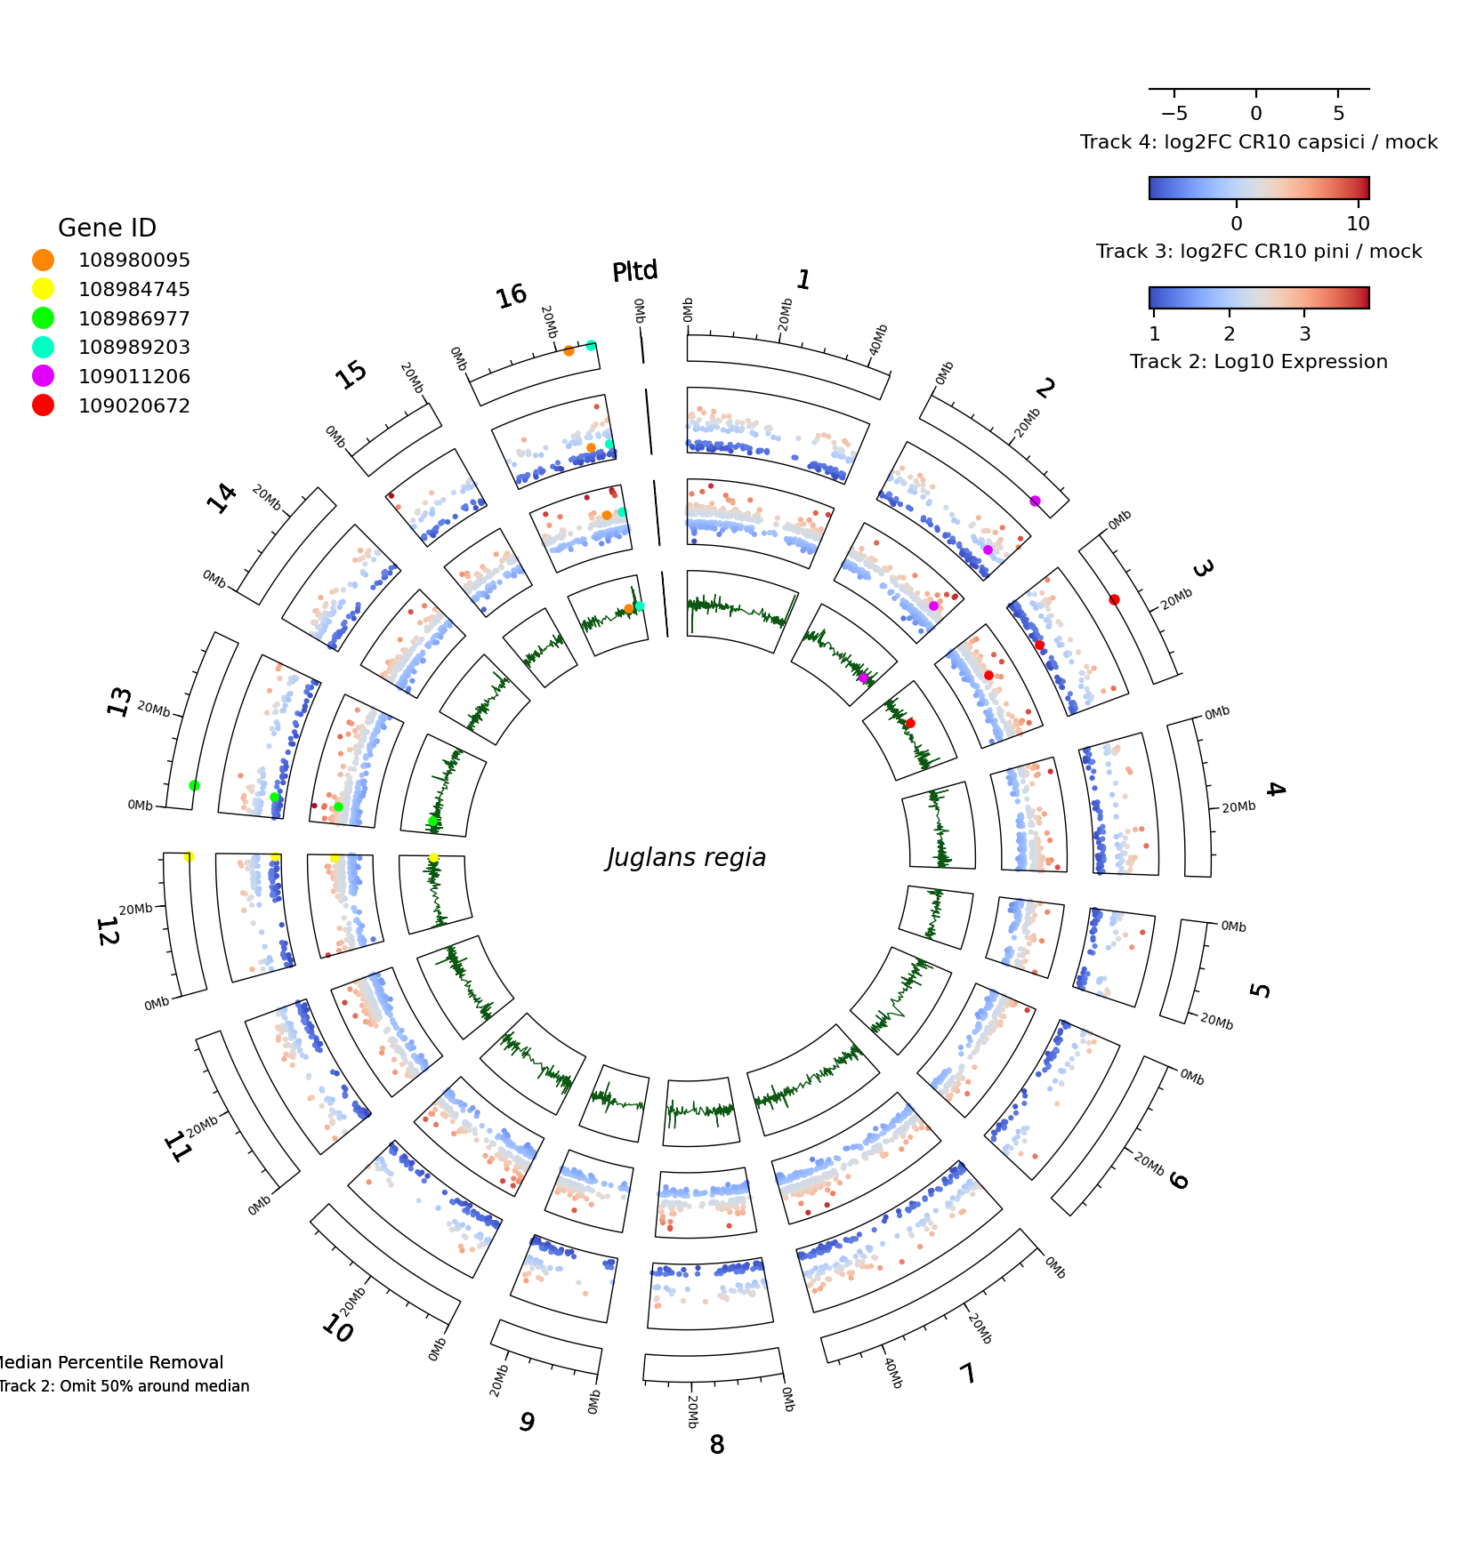
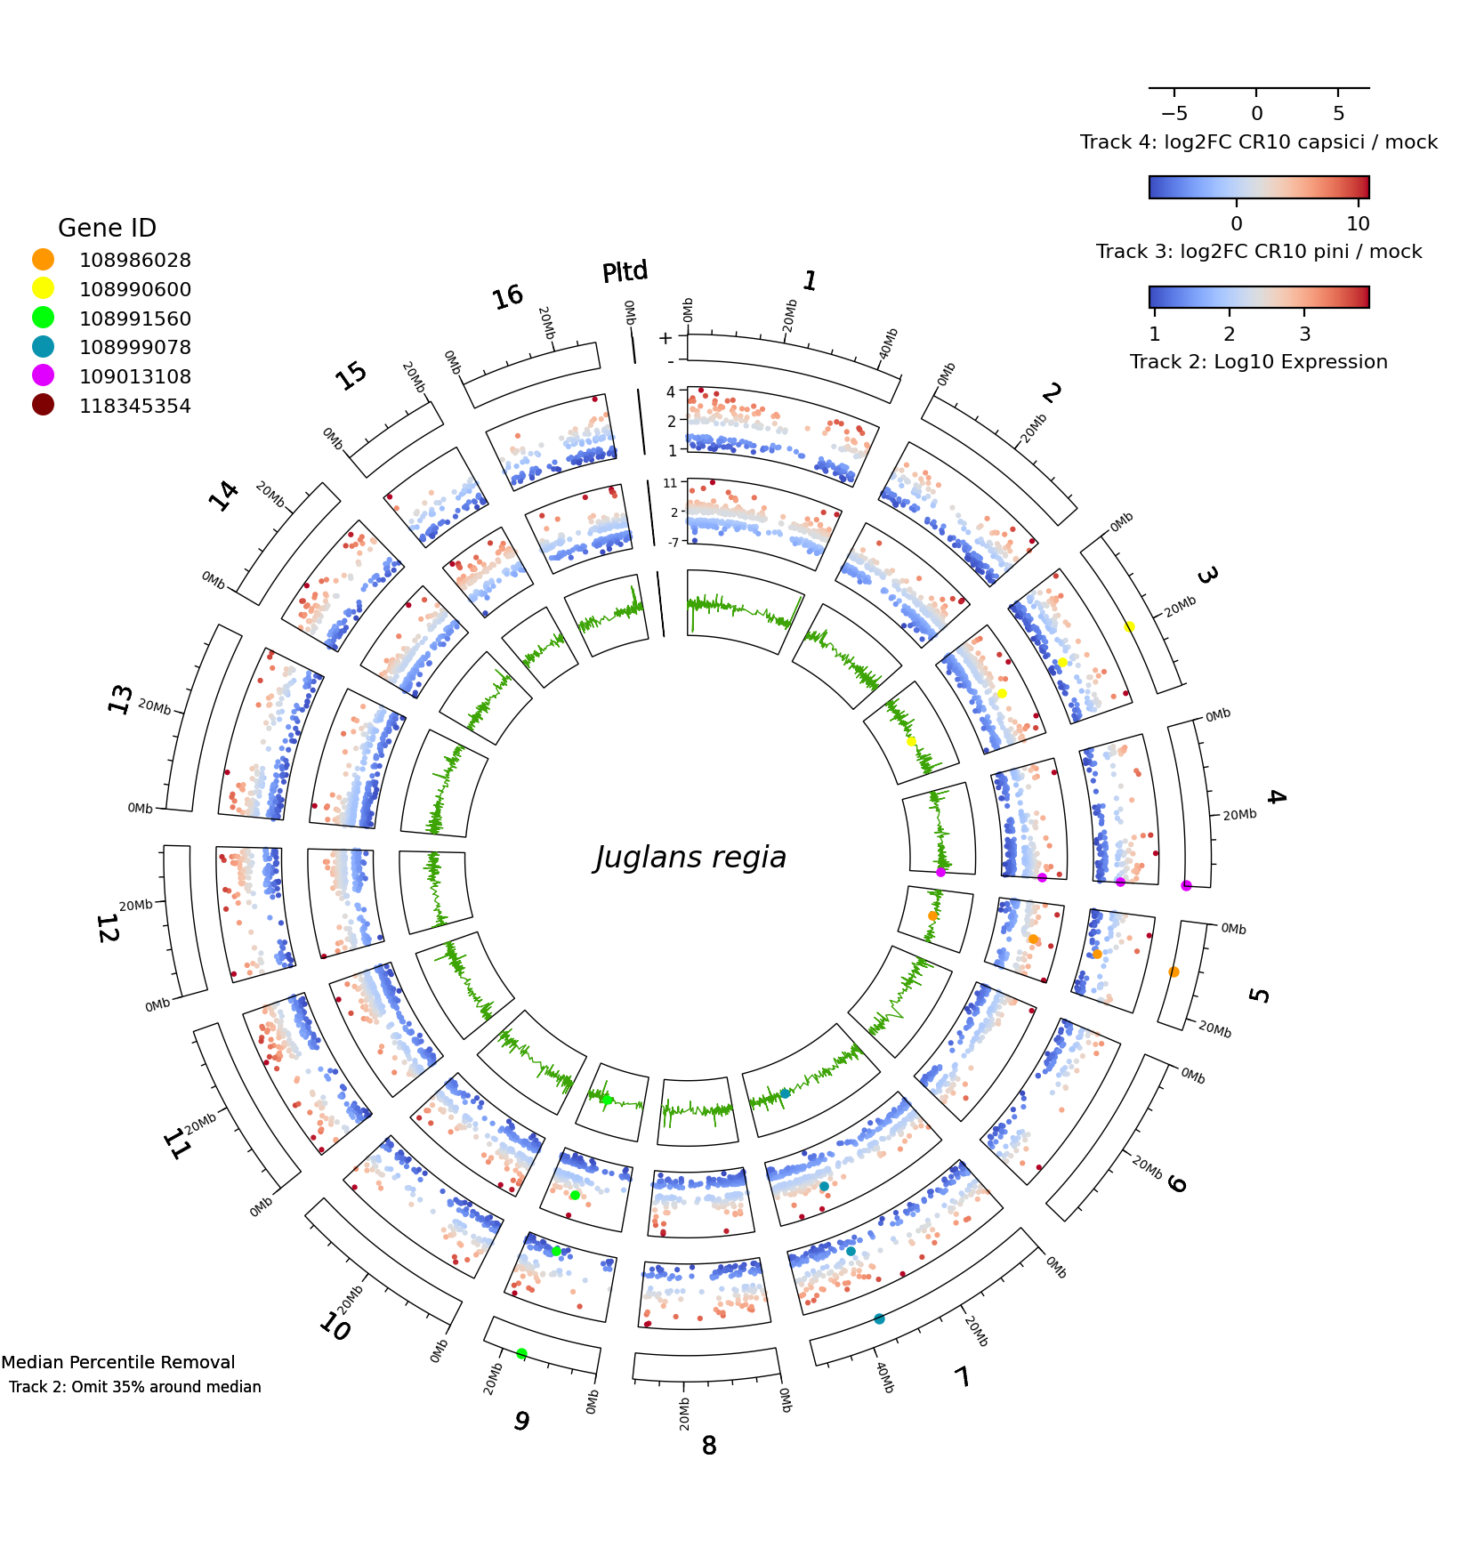
bug fixes

diff --git a/Genome_Visualization_App.py b/Genome_Visualization_App.py
@@ -7,30 +7,8 @@ from ncbi.datasets.openapi import ApiClient
 from ncbi.datasets.openapi.rest import ApiException
 import numpy as np
 from Bio import Entrez
+import textwrap
 import time
-
-def fetch_species_suggestions(query):
-    """Fetch species suggestions using the Entrez API."""
-    try:
-        handle = Entrez.esearch(db="taxonomy", term=query, retmax=5)
-        record = Entrez.read(handle)
-        handle.close()
-        time.sleep(0.4)  # Wait 400 ms (3 requests/second = 1 request/0.333s)
-        
-        if 'IdList' in record and record['IdList']:
-            species_names = []
-            for tax_id in record['IdList']:
-                tax_handle = Entrez.efetch(db="taxonomy", id=tax_id, retmode="xml")
-                tax_record = Entrez.read(tax_handle)
-                tax_handle.close()
-                species_names.append(tax_record[0]['ScientificName'])
-                time.sleep(0.4)  # Rate limiting for subsequent requests
-            return species_names
-        else:
-            return []
-    except Exception as e:
-        st.error(f"Error fetching species suggestions: {e}")
-        return []
         
 def main() -> None:
 
@@ -182,6 +160,7 @@ def main() -> None:
                 
                 desired_data = genomic_ranges
                 omit_pct = 0
+                rem_outliers_bool = False
 
             else:
                 if gene_id_input:
@@ -189,17 +168,16 @@ def main() -> None:
 
                 desired_data = full_data[desired_col]
 
-                if st.checkbox('Would you like to remove outliers for this track?', key=f'outlier_removal_{track}'):
-                    desired_data = remove_outliers(desired_data)
+                rem_outliers_bool = st.checkbox('Would you like to remove outliers for this track?', key=f'outlier_removal_{track}')
 
                 if invalid_col(full_data, desired_col):
                     return
                 
                 if st.checkbox('Would you like to omit points close to the median?', key=f'omit_points_{track}'):
 
-                    # Add slider for user to omit certain values close to mean
+                    # Add slider for user to omit certain values close to median
                     omit_pct = st.slider(
-                        label="Choose a cutoff to omit points close to the mean",
+                        label="Choose a cutoff to omit points close to the median",
                         min_value=0,
                         max_value=100,
                         value=0,
@@ -209,12 +187,15 @@ def main() -> None:
                 else:
                     omit_pct = 0
 
-            track_cols.append([desired_col, 'dot', desired_data, omit_pct, include_gene_loc])
+            track_cols.append([desired_col, 'dot', desired_data, omit_pct, rem_outliers_bool, include_gene_loc])
         
         # Add data to track_cols dict when user wants line or bar track
         for track_type in ['line' if line else None, 'bar' if bar else None]:
 
             if track_type:
+
+                # Line and bar tracks should not visualize Gene Location
+                available_cols.remove('Gene Location')
 
                 desired_col = st.selectbox(f"Select which data you would like to visualize in {track_type} track:", available_cols)
                 include_gene_loc = False
@@ -234,10 +215,9 @@ def main() -> None:
 
                     include_gene_loc = st.checkbox('Would you like to highlight selected genes in this track?', key='include_gene_loc_' + str(track_type))
 
-                    if st.checkbox('Would you like to remove outliers for this track?', key='outlier_removal_' + str(track_type)):
-                        desired_data = remove_outliers(desired_data)
+                    rem_outliers_bool = st.checkbox('Would you like to remove outliers for this track?', key='outlier_removal_' + str(track_type))
 
-                    track_cols.append([desired_col, track_type, desired_data, 0, include_gene_loc])
+                    track_cols.append([desired_col, track_type, desired_data, 0, rem_outliers_bool, include_gene_loc])
 
         # Plot genes not associated with any chromosome
         if st.checkbox('Would you like to plot the genes not associated with a chromosome?'):
@@ -245,7 +225,7 @@ def main() -> None:
             desired_col = st.selectbox(f"Select which data you would like to visualize in remaining genes track:", available_cols)
             rem_genes_color = st.color_picker(f"Pick a color for remaining genes plot", '#ff0000', key=f"rem_genes_color")
             omit_pct = st.slider(
-                    label="Choose a cutoff to omit points close to the mean",
+                    label="Choose a cutoff to omit points close to the median",
                     min_value=0,
                     max_value=100,
                     value=0,
@@ -266,7 +246,7 @@ def main() -> None:
                 st.write('Plotting!')
                 display_circos_plot(data, full_data, track_cols, bar_color, line_color, genomic_ranges, species_selection, genome_meta)
             
-            show_example_plots_bool = False
+                show_example_plots_bool = False
 
         except (KeyError):
             st.error('WARNING: There was an error displaying the plot.')
@@ -276,6 +256,30 @@ def main() -> None:
         show_example_plots()
 
 
+def fetch_species_suggestions(query):
+    """Fetch species suggestions using the Entrez API."""
+    try:
+        handle = Entrez.esearch(db="taxonomy", term=query, retmax=5)
+        record = Entrez.read(handle)
+        handle.close()
+        time.sleep(0.4)  # Wait 400 ms (3 requests/second = 1 request/0.333s)
+        
+        if 'IdList' in record and record['IdList']:
+            species_names = []
+            for tax_id in record['IdList']:
+                tax_handle = Entrez.efetch(db="taxonomy", id=tax_id, retmode="xml")
+                tax_record = Entrez.read(tax_handle)
+                tax_handle.close()
+                species_names.append(tax_record[0]['ScientificName'])
+                time.sleep(0.4)  # Rate limiting for subsequent requests
+            return species_names
+        else:
+            return []
+    except Exception as e:
+        st.error(f"Error fetching species suggestions: {e}")
+        return []
+
+
 def show_example_plots() -> None:
     st.markdown("#### Example Plots")
     example_plot_urls = [
@@ -283,14 +287,6 @@ def show_example_plots() -> None:
     ]
     for url in example_plot_urls:
         st.image(url, caption="Example Plot", use_column_width=True)
-
-
-def remove_outliers(desired_data):
-
-    z_score = (desired_data - desired_data.mean()) / desired_data.std()
-
-    return desired_data[np.abs(z_score) <= 3]
-
 
 
 def get_chrom_locations(organism_name: str) -> pd.DataFrame:
@@ -477,14 +473,20 @@ def get_chrom_num(key: str, genome_meta=None) -> str:
 
 def display_circos_plot(data: dict, full_data, track_cols: list, bar_color, line_color, genomic_ranges, species_selection, genome_meta) -> None:
     
+    # Get desired_data maximum to give space for yticks
+    maxes = [max(desired_data) for desired_col, _, desired_data, _, _, _ in track_cols if desired_col != 'Gene Location']
+
     # Prepare Circos plot with sectors (using chromosome sizes)
     sectors = {str(row[1]['Chromosome']): row[1]['Size (bp)'] for row in data.iterrows()}
-    circos = Circos(sectors, space=5)
+    circos = Circos(sectors, space=4, start=0, end=360 - (len(str(round(max(maxes)))) if maxes else 0))
 
     lower = 105
 
     # Format: track_cols[0] = [desired_col, plot_type, desired_data, omit_pct, include_gene_loc]
-    for index, [desired_col, plot_type, desired_data, omit_pct, include_gene_loc] in enumerate(track_cols):
+    for index, [desired_col, plot_type, desired_data, omit_pct, rem_outliers_bool, include_gene_loc] in enumerate(track_cols):
+
+        # omit_pct correction
+        omit_pct = np.abs(100-omit_pct)
 
         upper = lower - 5
         if desired_col == 'Gene Location':
@@ -494,10 +496,6 @@ def display_circos_plot(data: dict, full_data, track_cols: list, bar_color, line
         else:
             width = 50/len(track_cols)
         lower = upper - width
-
-        # Get the colors for given column if it is not Gene Location
-        if desired_col != 'Gene Location':
-            full_data['color_' + str(index)] = get_colormap(desired_data)
 
         for chrom_num, sector_obj in enumerate(circos.sectors):
             # Map the sector name using get_chrom_num
@@ -535,16 +533,15 @@ def display_circos_plot(data: dict, full_data, track_cols: list, bar_color, line
             if desired_col == 'Gene Location':
                 
                 # Add y-ticks only on the left side of the chr01 sector
-                if get_chrom_num(sector_obj.name) == 'chr01':  
-                    track.yticks([0, 1], list("-+"), vmin=0, vmax=1, side="left")
-                elif get_chrom_num(sector_obj.name) == '1':  
+                if chrom_num == 0:  
                     track.yticks([0, 1], list("-+"), vmin=0, vmax=1, side="left")
 
             # Only add tick marks to tracks that are not bar or line    
             elif plot_type not in ['bar', 'line']:
-                if get_chrom_num(sector_obj.name) == 'chr01': 
-                    track.yticks(y=np.linspace(desired_data.min(), desired_data.max(), num=5), \
-                                labels=[f"{round(tick)}" for tick in np.linspace(desired_data.min(), desired_data.max(), num=5)], \
+                if chrom_num == 0: 
+                    num_ticks = 5 if len(track_cols) <= 3 else 3
+                    track.yticks(y=np.linspace(desired_data.min(), desired_data.max(), num=num_ticks), \
+                                labels=[f"{round(tick)}" for tick in np.linspace(desired_data.min(), desired_data.max(), num=num_ticks)], \
                                 vmin=desired_data.min(), vmax=desired_data.max(), side="left", label_size=7-index)
         
             # If given track is not Gene Location
@@ -564,18 +561,27 @@ def display_circos_plot(data: dict, full_data, track_cols: list, bar_color, line
                     gene_full_data['gene_color'] = gene_full_data['Gene ID'].map(genomic_ranges_dict)
                     gene_chr_data = gene_full_data[gene_full_data['Chromosome'] == str(chrom_num + 1)].reset_index(drop=True)
 
+                    # Remove outliers if user selected
+                    if rem_outliers_bool:
+                        z_score = (chr_data[desired_col]-chr_data[desired_col].mean()) / chr_data[desired_col].std()
+                        chr_data = chr_data[np.abs(z_score) <= 3]
+
                     if plot_type == 'dot':
 
-                        # Remove points close to the mean if user selected:
+                        # Remove points close to the median if user selected
                         if omit_pct > 0:
 
-                            lower_bound = desired_data.quantile((100 - omit_pct) / 200)
-                            upper_bound = desired_data.quantile(1 - (100 - omit_pct) / 200)
+                            lower_bound = chr_data[desired_col].quantile(omit_pct / 200)
+                            upper_bound = chr_data[desired_col].quantile(1 - (omit_pct / 200))
 
                             chr_data = chr_data[(chr_data[desired_col] < lower_bound) | (chr_data[desired_col] > upper_bound)]
 
+                        # Get colors for column
+                        if desired_col != 'Gene Location':
+                            chr_data['color_' + str(index)] = get_colormap(chr_data[desired_col])
+
                         track.scatter(chr_data['Begin'].tolist(), chr_data[desired_col].tolist(), color=chr_data['color_' + str(index)], 
-                                      cmap='coolwarm', vmin=desired_data.min(), vmax=desired_data.max(), s=5)
+                                      cmap='coolwarm', vmin=chr_data[desired_col].min(), vmax=chr_data[desired_col].max(), s=5)
 
                         # If user wants selected gene to be highlighted on current track
                         if include_gene_loc:
@@ -600,12 +606,12 @@ def display_circos_plot(data: dict, full_data, track_cols: list, bar_color, line
 
                             # Ensure the column has values in it
                             vmin = 0 if full_data[desired_col].min() > 0 else full_data[desired_col].min()
-                            track.bar(chr_data['Begin'].tolist(), chr_data[desired_col].tolist(), ec=bar_color, lw=0.9, vmin=vmin, vmax=full_data[desired_col].max())
+                            track.bar(chr_data['Begin'].tolist(), chr_data[desired_col].tolist(), ec=bar_color, lw=0.9, vmin=vmin, vmax=chr_data[desired_col].max())
 
                             # If user wants selected gene to be highlighted on current track
                             if include_gene_loc:
                                 track.bar(gene_chr_data['Begin'].tolist(), gene_chr_data[desired_col].tolist(), ec=gene_chr_data['gene_color'], 
-                                          lw=0.9, vmin=vmin, vmax=full_data[desired_col].max())
+                                          lw=0.9, vmin=vmin, vmax=chr_data[desired_col].max())
 
             # If user manually included gene IDs
             else:
@@ -615,7 +621,7 @@ def display_circos_plot(data: dict, full_data, track_cols: list, bar_color, line
                         track.scatter([x], [y], color=color_to_use, s=20)
 
     # Add colorbar for expression level columns
-    exp_cols = [[desired_col, plot_type, index] for index, [desired_col, plot_type, _, _, _] in enumerate(track_cols) if desired_col != 'Gene Location']
+    exp_cols = [[desired_col, plot_type, index] for index, [desired_col, plot_type, _, _, _, _] in enumerate(track_cols) if desired_col != 'Gene Location']
 
     for index, (label, plot_type, track_index) in enumerate(exp_cols):
 
@@ -651,20 +657,23 @@ def display_circos_plot(data: dict, full_data, track_cols: list, bar_color, line
 
     # Render the plot using Matplotlib
     fig = circos.plotfig()
+    
+    wrapped_labels = [
+        "\n".join(textwrap.wrap(species_selection, width=20, break_long_words=False))
+    ]
 
     species_legend = circos.ax.legend(
-        handles=[plt.Line2D([0], [0], color="black", linestyle='None')],
-        labels=[species_selection],
+        handles=[plt.Line2D([0], [0], color="black", linestyle='None') for _ in species_selection],
+        labels=wrapped_labels,  # Use wrapped labels
         bbox_to_anchor=(0.48, 0.5),
         loc='center',
-        fontsize=12,
-        prop={'style': 'italic'}
-        )
+        prop={'size': 12 - (len(track_cols))//2, 'style': 'italic'}
+    )
  
     circos.ax.add_artist(species_legend)
 
     # Add legend for selected gene IDs
-    if 'Gene Location' in [col for col, _, _, _, _ in track_cols]:
+    if 'Gene Location' in [col for col, _, _, _, _, _ in track_cols]:
          
         scatter_legend = circos.ax.legend(
             handles=[plt.Line2D([0], [0], color=row[-1], marker='o', ls='None', ms=8) for row in genomic_ranges],  
@@ -682,7 +691,7 @@ def display_circos_plot(data: dict, full_data, track_cols: list, bar_color, line
     # Add legend for sliders
     removal_legend_items = [
         (f"Track {track_index + 1}: Omit {omit_pct}% around median", track_index)
-        for track_index, (_, _, _, omit_pct, _) in enumerate(track_cols)
+        for track_index, (_, _, _, omit_pct, _, _) in enumerate(track_cols)
         if omit_pct > 0
     ]
     # Add removal legend if there are items
@@ -698,7 +707,7 @@ def display_circos_plot(data: dict, full_data, track_cols: list, bar_color, line
         removal_legend = circos.ax.legend(
             handles=legend_handles,  
             labels=legend_labels,  
-            bbox_to_anchor=(-0.17, 0),
+            bbox_to_anchor=(-0.16, 0),
             loc='lower left',
             title="Median Percentile Removal",
             fontsize=6,
